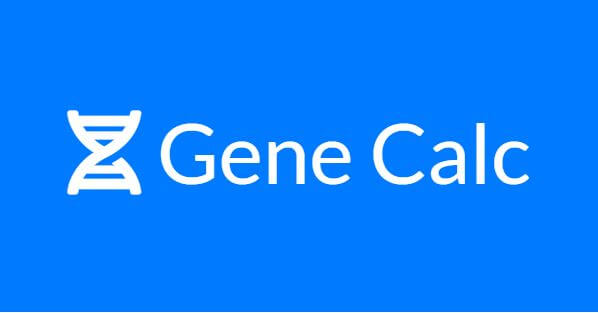
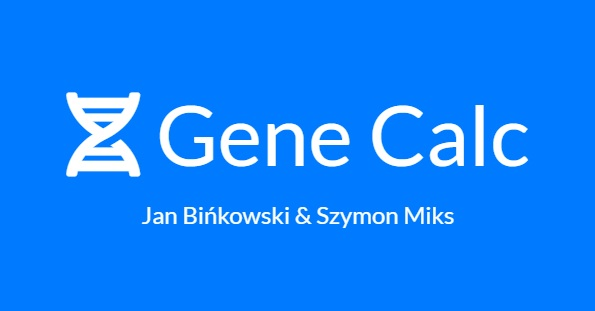
add template for seo social meta tags, remove previous seo social meta tags in home template, chcange meta social img

Changed region(s): [[0.0908, 0.2894, 0.9076, 0.6367], [0.242, 0.6656, 0.7866, 0.7235], [0.0, 0.9839, 1.0, 1.0]]

diff --git a/app/templates/home/index.html b/app/templates/home/index.html
@@ -4,26 +4,6 @@
 {% block seo_desc %}{{ module_desc.seo_desc }}{% endblock %}
 {% block seo_keywords %}{{ module_desc.seo_keywords }}{% endblock %}
 
-{% block seo_social %}
-<!-- Google / Search Engine Tags -->
-<meta itemprop="name" content="{{ module_desc.seo_title }}">
-<meta itemprop="description" content="{{ module_desc.seo_desc }}">
-<meta itemprop="image" content="{{ url_for('static', filename='img/gene-social.jpg') }}">
-
-<!-- Facebook Meta Tags -->
-<meta property="og:url" content="{{ request.base_url }}">
-<meta property="og:type" content="website">
-<meta property="og:title" content="{{ module_desc.seo_title }}">
-<meta property="og:description" content="{{ module_desc.seo_desc }}">
-<meta property="og:image" content="{{ url_for('static', filename='img/gene-social.jpg') }}">
-
-<!-- Twitter Meta Tags -->
-<meta name="twitter:card" content="summary_large_image">
-<meta name="twitter:title" content="{{ module_desc.seo_title }}">
-<meta name="twitter:description" content="{{ module_desc.seo_desc }}">
-<meta name="twitter:image" content="{{ url_for('static', filename='img/gene-social.jpg') }}">
-{% endblock %}
-
 {% block body %}
 <div class="wrapper">
   {% include 'utils/module_top_block.html' %}

diff --git a/app/templates/utils/seo_social.html b/app/templates/utils/seo_social.html
@@ -1,0 +1,17 @@
+<!-- Google / Search Engine Tags -->
+<meta itemprop="name" content="{{ module_desc.seo_title }}">
+<meta itemprop="description" content="{{ module_desc.seo_desc }}">
+<meta itemprop="image" content="{{ url_for('static', filename='img/gene-social.jpg', _external=True) }}">
+
+<!-- Facebook Meta Tags -->
+<meta property="og:url" content="{{ request.base_url }}">
+<meta property="og:type" content="website">
+<meta property="og:title" content="{{ module_desc.seo_title }}">
+<meta property="og:description" content="{{ module_desc.seo_desc }}">
+<meta property="og:image" content="{{ url_for('static', filename='img/gene-social.jpg', _external=True) }}">
+
+<!-- Twitter Meta Tags -->
+<meta name="twitter:card" content="summary_large_image">
+<meta name="twitter:title" content="{{ module_desc.seo_title }}">
+<meta name="twitter:description" content="{{ module_desc.seo_desc }}">
+<meta name="twitter:image" content="{{ url_for('static', filename='img/gene-social.jpg', _external=True) }}">

diff --git a/app/templates/sequences_analysis_tools/consensus_sequence.html b/app/templates/sequences_analysis_tools/consensus_sequence.html
@@ -67,8 +67,8 @@
           <div class="form-group">
             <label for="type-of-sequence">Type of sequence:</label>
             <select class="form-control" id="type-of-sequence">
-              <option value="nucleotide" selected>Amino acid sequences</option>
-              <option value="protein">Nucleotide sequences</option>
+              <option value="protein" selected>Amino acid sequences</option>
+              <option value="nucleotide">Nucleotide sequences</option>
             </select>
           </div>
         </div>

diff --git a/app/templates/base.html b/app/templates/base.html
@@ -9,6 +9,7 @@
   <meta name="author" content="Gene Calc - Szymon Miks, Jan Binkowski">
 
   {% block seo_social %}
+    {% include "utils/seo_social.html" with context %}
   {% endblock %}
 
   <link rel="icon" href="{{ url_for('static', filename='img/favicons/favicon.ico') }}">
